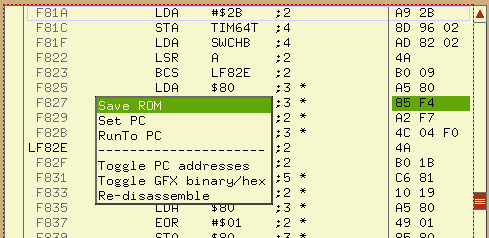
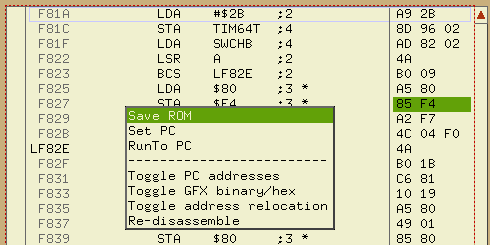
Added 'dis.relocate' commandline argument, which passes the Distella '-r' option (Relocate calls out of address range) to the disassembler core.  Also added UI item to dynamically change the setting.
Renamed 'resolvedata', 'showaddr' and 'gfxformat' commandline
arguments to start with 'dis', indicating that they're part
of the disassembler.

Changed region(s): [[0.0, 0.0, 1.0, 1.0], [0.9509, 0.7941, 1.0, 0.8824]]

diff --git a/docs/debugger.html b/docs/debugger.html
@@ -1084,7 +1084,7 @@ graphically differentiate between RAM and ROM areas.</p>
 <p>The ROM listing also contains a context menu, accessible by right-clicking
 anywhere in the listing:</p>
 <p><img src="graphics/debugger_romcmenu.png"></p>
-<p>Currently, there are three options:</p>
+<p>The following options are available:</p>
 <ul>
 <li><b>Save ROM</b>: A textbox will appear for you to enter filename,
 and then the ROM will be saved. Note that the filename is considered
@@ -1102,6 +1102,9 @@ addresses.</li>
 
 <li><b>Toggle GFX binary/hex</b>: Switch between editing GFX and PGFX sections
 in either hexidecimal or binary.</li>
+
+<li><b>Toggle address relocation</b>: Corresponds to the Distella '-r' option
+(Relocate calls out of address range).</li>
 
 <li><b>Re-disassemble</b>: Self-explanatory; force the current bank to be
 disassembled, regardless of whether anything has changed.</li>

diff --git a/docs/index.html b/docs/index.html
@@ -2251,20 +2251,25 @@
     </tr>
 
     <tr>
-      <td><pre>-resolvedata &lt;never|always|auto&gt;</pre></td>
+      <td><pre>-dis.resolvedata &lt;never|always|auto&gt;</pre></td>
       <td>Try to differentiate between code vs. data sections in the
       disassembler.  See the Debugger section for more information.</td>
     </tr>
 
     <tr>
-      <td><pre>-gfxformat &lt;2|16&gt;</pre></td>
+      <td><pre>-dis.gfxformat &lt;2|16&gt;</pre></td>
       <td>Sets the base to use for displaying GFX sections in the disassembler.
       </td>
     </tr>
 
     <tr>
-      <td><pre>-showaddr &lt;1|0&gt;</pre></td>
+      <td><pre>-dis.showaddr &lt;1|0&gt;</pre></td>
       <td>Shows/hides opcode addresses in the disassembler.</td>
+    </tr>
+
+    <tr>
+      <td><pre>-dis.relocate &lt;1|0&gt;</pre></td>
+      <td>Relocate calls out of address range.</td>
     </tr>
 
     <tr>
